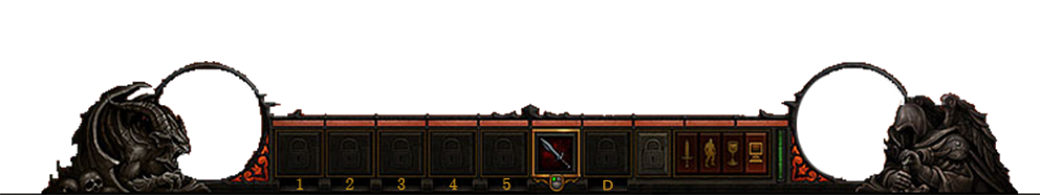
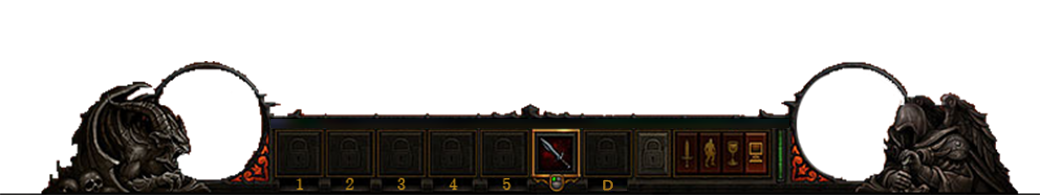
UI : 경험치 바 추가중

Changed region(s): [[0.2462, 0.5846, 0.7692, 0.6769]]

diff --git a/lucifer/lucifer/static/js/game/User_Interface/UserInterface.js b/lucifer/lucifer/static/js/game/User_Interface/UserInterface.js
@@ -5,6 +5,7 @@ var statusDataText,
     mpMask
 //----------------------------------------------------------------------------------------------------------
 var UI_Group, UI_UnderBar, UI_HpBar, UI_MpBar, UI_QuickSlot, UI_Stat, UI_Skill;	//UI 이미지 변수.
+var UI_ExperienceBar;
 //----------------------------------------------------------------------------------------------------------
 var key_Stat, Key_Skill, ui_Delay_Time;
 
@@ -18,7 +19,8 @@ function ui_Preload()
 	Lucifer_Game.load.spritesheet('UI_MpBar', '../../static/images/game/UI/UnderBar/UI_MpBar.png', 120, 120);
 	Lucifer_Game.load.spritesheet('UI_Stat', '../../static/images/game/UI/Stat/status2.png', 496, 961);
     Lucifer_Game.load.spritesheet('UI_Skill', '../../static/images/game/UI/SkillBack/Ui_Skill.png', 791, 525);
-
+    Lucifer_Game.load.spritesheet('UI_ExperienceBar', '../../static/images/game/UI/UnderBar/Experience_Bar.png', 520, 8);
+    
     //Quickslot Potion
     Lucifer_Game.load.spritesheet('Quickslot_Potion1',
                                   '../../static/images/game/item/healthPotion1.png', 55, 55);
@@ -55,6 +57,11 @@ function ui_Create()
     UI_Skill.anchor.setTo(0.5, 0.5);
     UI_Skill.fixedToCamera = true;
     UI_Skill.visible = false;
+
+    //Experience Bar
+    UI_ExperienceBar = Lucifer_Game.add.sprite(UI_UnderBar.x + 6, UI_UnderBar.y + 15, 'UI_ExperienceBar');
+    UI_ExperienceBar.anchor.setTo(0.5, 0.5);
+    UI_ExperienceBar.fixedToCamera = true;
 
     //hpMask is show real-time HP
     hpMask = Lucifer_Game.add.graphics(350, 730);

diff --git a/lucifer/lucifer/static/js/game/Player/Level_System.js b/lucifer/lucifer/static/js/game/Player/Level_System.js
@@ -1,4 +1,4 @@
-// Lving System
+//Lving System
 //----------------------------------------------------------------------------------------------
 var get_Exp = 0;
 var Player_levelUp_Check = false;
@@ -8,7 +8,6 @@ var Player_levelUp_Check = false;
 var player_Skill_One = false, player_Skill_Two = false, player_Skill_Three = false;
 var player_Skill_Four = false, plyaer_Skill_Five = false;
 //----------------------------------------------------------------------------------------------
-
 function check_Monster_Dead(Object)
 {
     if(Object.ExpCheck == true)

diff --git a/lucifer/lucifer/static/js/game/Scene/Lucifer_menuSelect.js b/lucifer/lucifer/static/js/game/Scene/Lucifer_menuSelect.js
@@ -42,9 +42,9 @@ var menuSelectScene =
 };
 
 function up() {
-   //Lucifer_Game.state.start('load');
+   Lucifer_Game.state.start('load');
    //Lucifer_Game.state.start('stage2_load');	//stage2 확인용.
-   Lucifer_Game.state.start('stage3_load');	//보스 AI 확인용.
+   //Lucifer_Game.state.start('stage3_load');	//보스 AI 확인용.
 };
 
 function exit() {
